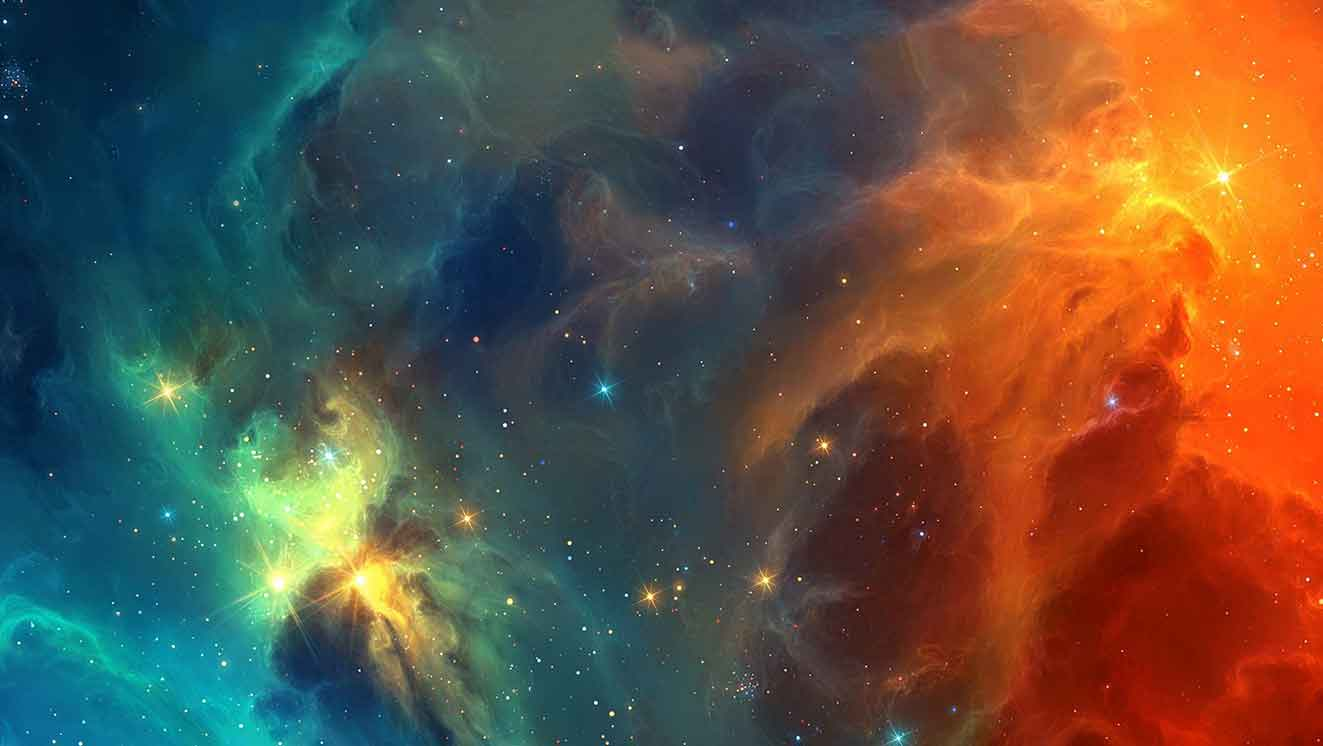
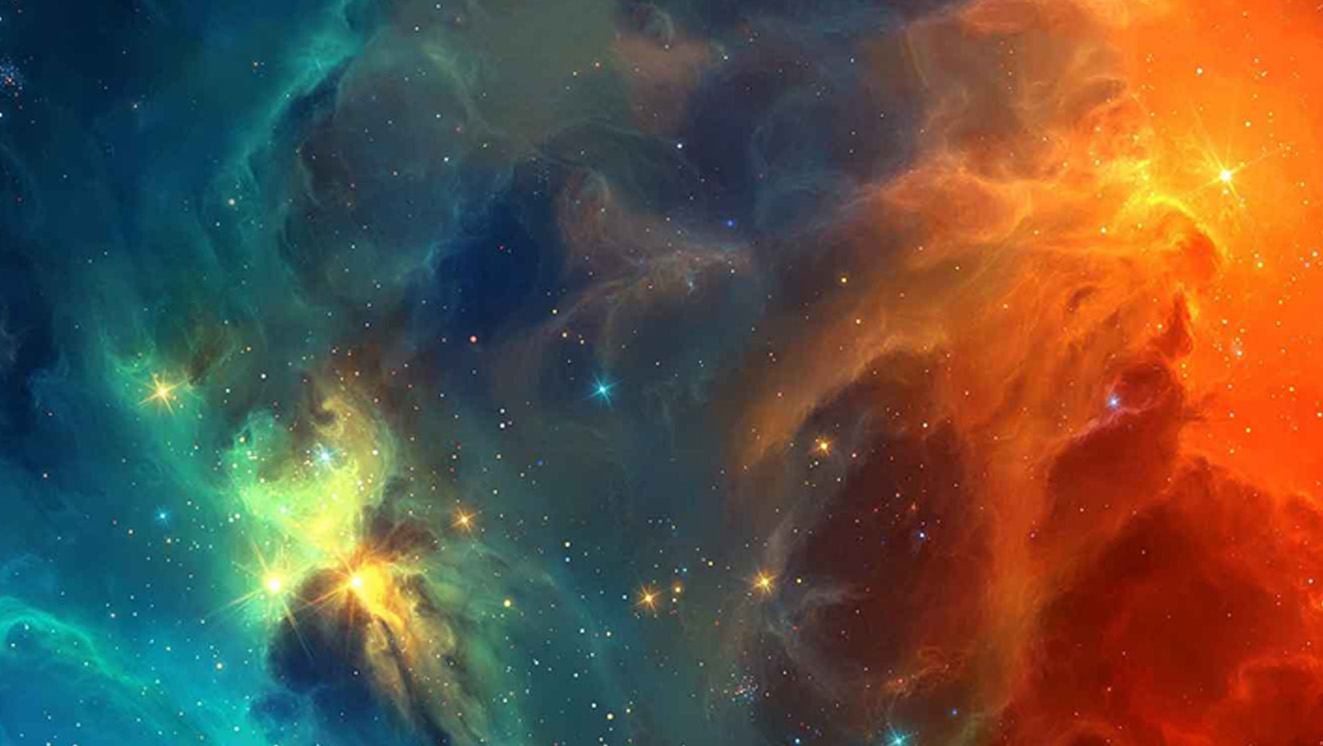
interface a okay

diff --git a/src/css/style.css b/src/css/style.css
@@ -17,7 +17,7 @@ body {
   z-index: 3;
   color: white;
   /*background-color: rgba(0, 0, 0, .8);*/
-  background-image: url(../assets/background.jpg);
+  background-image: url(../assets/space.jpg);
   background-repeat: no-repeat;
   background-size: cover;
   width: 100%;
@@ -26,18 +26,27 @@ body {
   flex-flow: column;
   justify-content: center;
   align-items: center;
+  overflow: hidden;
 }
 
 .a-enter-vr-button {
   right: calc(50% - 45px);
   position: absolute;
-  bottom: 8rem;
+  bottom: 25rem;
+  left: 49%;
+  display: flex;
+  justify-content: center;
+}
+
+.a-enter-vr-button:hover {
+  background-color: rgba(0, 0, 0, 0);
 }
 
 .titel, .playTitle {
-  font-size: 1.6em;
+  font-size: 2.6em;
   font-weight: 100;
   text-align: center;
+  margin-top: 5rem;
 }
 
 .orbit {
@@ -48,23 +57,22 @@ body {
 }
 
 .rules {
-  font-size: 1.6rem;
+  font-size: 2.6rem;
   text-align: center;
   font-weight: 300;
-  margin-top: 4rem;
+  margin-top: 15%;
 }
 
 .instructions {
-  width: 21rem;
+  width: 25rem;
   text-align: center;
   font-weight: 300;
 }
 
 .instruction-flex {
   display: flex;
-  justify-content: space-between;
-  margin-top: 2rem;
-  width: 65%;
+  justify-content: space-around;
+  margin-top: 8rem;
 }
 
 .bold {
@@ -73,17 +81,23 @@ body {
 
 .arrow-right {
   position: absolute;
-  left: 77%;
-  top: 20%;
+  left: 91%;
+  top: calc(50vh - 25px);
   opacity: .8;
+  transition: opacity 1s ease;
 }
 
 .arrow-left {
   position: absolute;
-  right: 77%;
-  top: 11%;
+  left: 6%;
+  top: calc(50vh - 25px);
   opacity: .8;
   transform: rotate(180deg);
+  transition: opacity 1s ease;
+}
+
+.arrow-right:hover {
+  opacity: 1;
 }
 
 .right-arrow-clicked {
@@ -94,14 +108,80 @@ body {
   display: none;
 }
 
-@media (max-width: 420px) {
+.blur-border {
+  width: 70%;
+  height: 80%;
+  border: 1px solid rgba(255, 255, 255, .7);
+  overflow: hidden;
+}
 
-  .titel {
-    margin-top: -14rem;
+.blur {
+  background-image: url(../assets/space.jpg);
+  background-repeat: no-repeat;
+  padding: 20px;
+  padding: 2rem;
+  width: 71%;
+  height: 81%;
+  position: absolute;
+  z-index: -99;
+  border: 1px solid white;
+  filter: blur(10px);
+}
+
+.widget {
+  height: 100%;
+  width: 100%;
+  overflow: hidden;
+  border: 1px solid white;
+}
+
+@media (max-width: 812px) {
+
+  .a-enter-vr-button {
+    right: calc(50% - 45px);
+    position: absolute;
+    bottom: 8rem;
+  }
+
+  .arrow-left {
+    left: 4%;
+    top: calc(50vh - 25px);
+  }
+
+  .arrow-right {
+    left: 89%;
+    top: calc(50vh - 25px);
+  }
+
+  .instructions {
+    width: 20rem;
   }
 
   .rules {
-    font-size: 2.6rem;
+    margin-top: 10vh;
+  }
+
+  .titel {
+    margin-top: 6vh;
+  }
+
+  .instruction-flex {
+    margin-top: 8vh;
+  }
+}
+
+@media (max-width: 640px) {
+
+  .arrow-left {
+    right: 89%;
+    top: calc(50vh - 25px);
+  }
+}
+
+@media (max-width: 412px) {
+
+  .titel {
+    margin-top: 6vh;
   }
 
   .instruction-flex {
@@ -109,44 +189,19 @@ body {
   }
 
   .instructions {
-    margin-top: 3rem;
-    font-size: 2rem;
-    width: 90%;
-    line-height: 3rem;
+    width: 100%;
+    margin-bottom: 5rem;
+  }
+
+  .rules {
+    margin-top: 4rem;
   }
 
   .arrow-right {
-    left: 24%;
-    top: 68%;
-    position: absolute;
+    left: 86%;
   }
 
   .arrow-left {
-    left: 6%;
-    top: 64%;
-    position: absolute;
-  }
-
-  .a-enter-vr-button {
-    right: calc(50% - 38px);
-    position: absolute;
-    bottom: 120px;
-    bottom: 21rem;
-  }
-
-  .overlay {
-    position: absolute;
-    z-index: 3;
-    color: white;
-    /*background-color: rgba(0, 0, 0, .8);*/
-    background-image: url(../assets/backgroundd.jpg);
-    background-repeat: no-repeat;
-    background-size: cover;
-    width: 100%;
-    height: 100%;
-    display: flex;
-    flex-flow: column;
-    justify-content: center;
-    align-items: center;
+    left: 1%;
   }
 }

diff --git a/src/index.html b/src/index.html
@@ -12,7 +12,9 @@
 </head>
 
 <body>
-  <div class="overlay">
+  <div class="overlay widget">
+    <div class="blur"></div>
+    <div class="blur-border">
       <header>
         <h1 class="titel">WELCOME TO <span class="orbit">ORBIT</span></h1>
         <h2 class="playTitle invisible">TOUCH TO TURN ON <span class="orbit">VR</span></h2>
@@ -22,8 +24,9 @@
         <p class="instructions instructions-right">Shout <span class="bold">“PEW PEW”</span> to shoot bullets towards incomming astroids</p>
         <p class="instructions instructions-left">Fly in a direction by <span class="bold">rotating</span> your head</p>
       </div>
-      <img src="./assets/arrow.svg" alt="arrow" width="250" height="250" class="arrow-right">
-      <img src="./assets/arrow.svg" alt="arrow" width="250" height="250" class="arrow-left invisible">
+      <img src="./assets/arrow.svg" alt="arrow" width="50" height="50" class="arrow-right">
+      <img src="./assets/arrow.svg" alt="arrow" width="50" height="50" class="arrow-left invisible">
+  </div>
   </div>
   <a-scene stats-in-vr>
     <a-assets>
